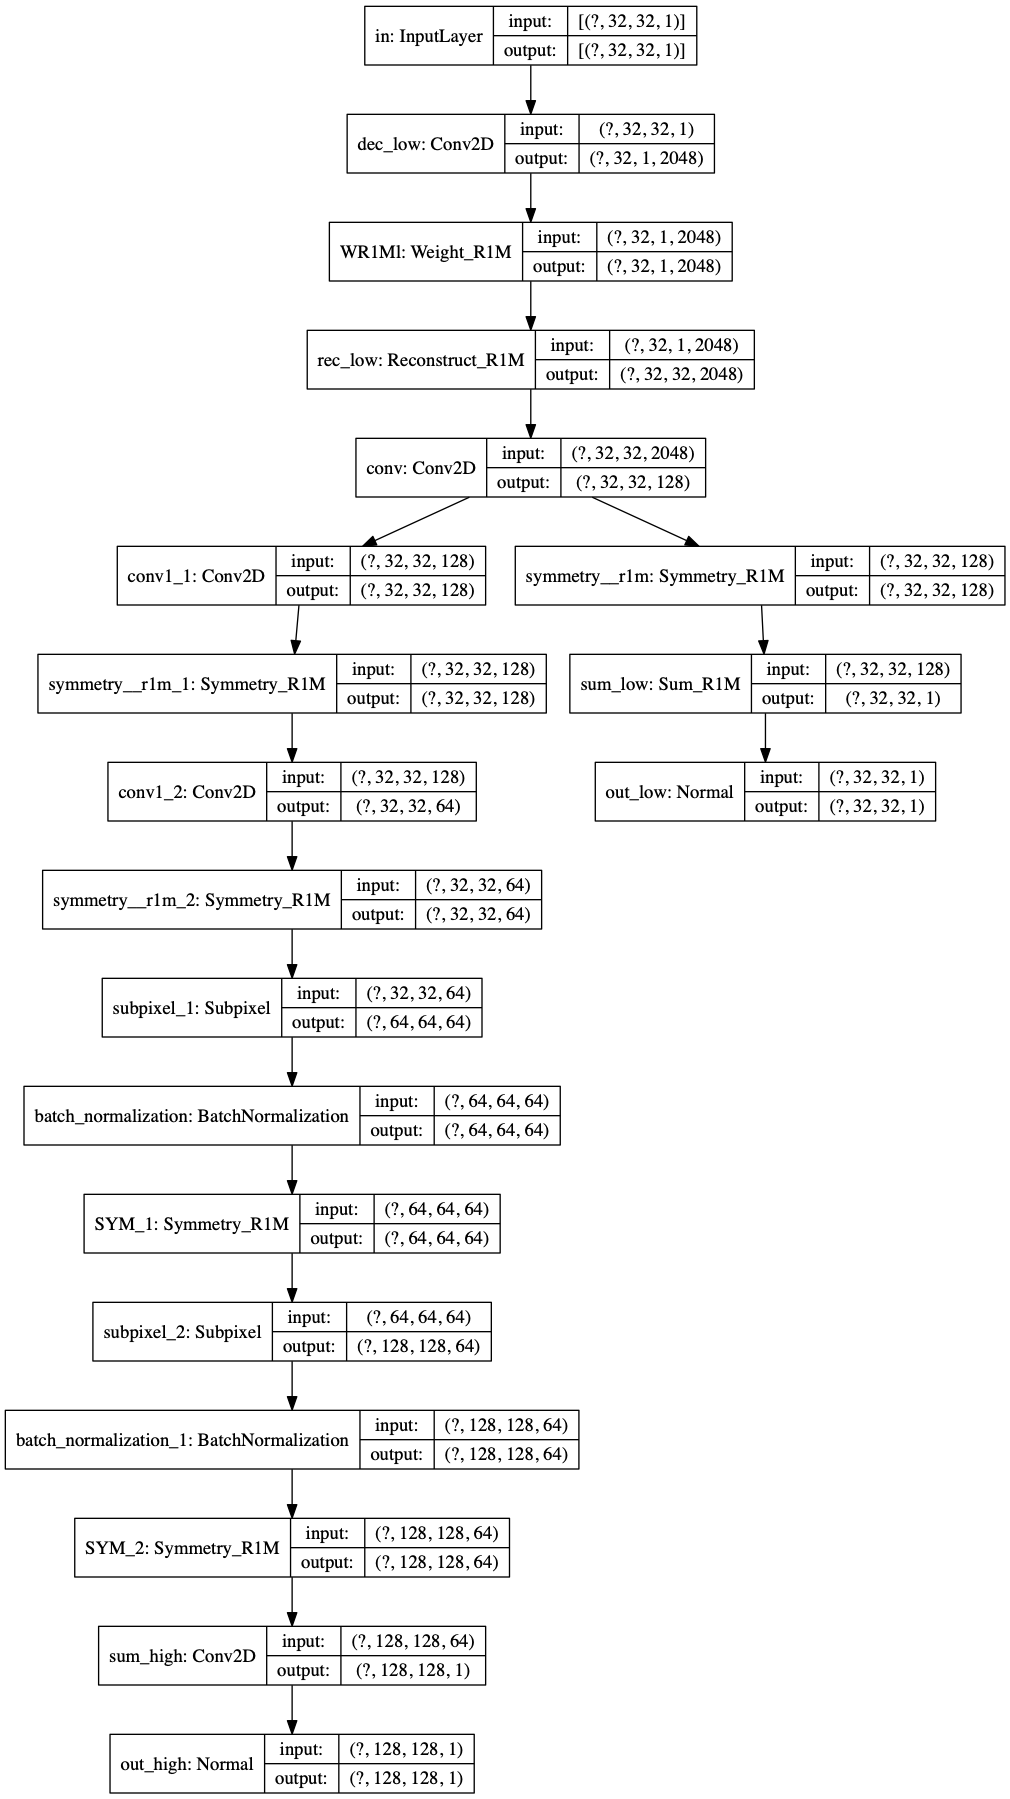
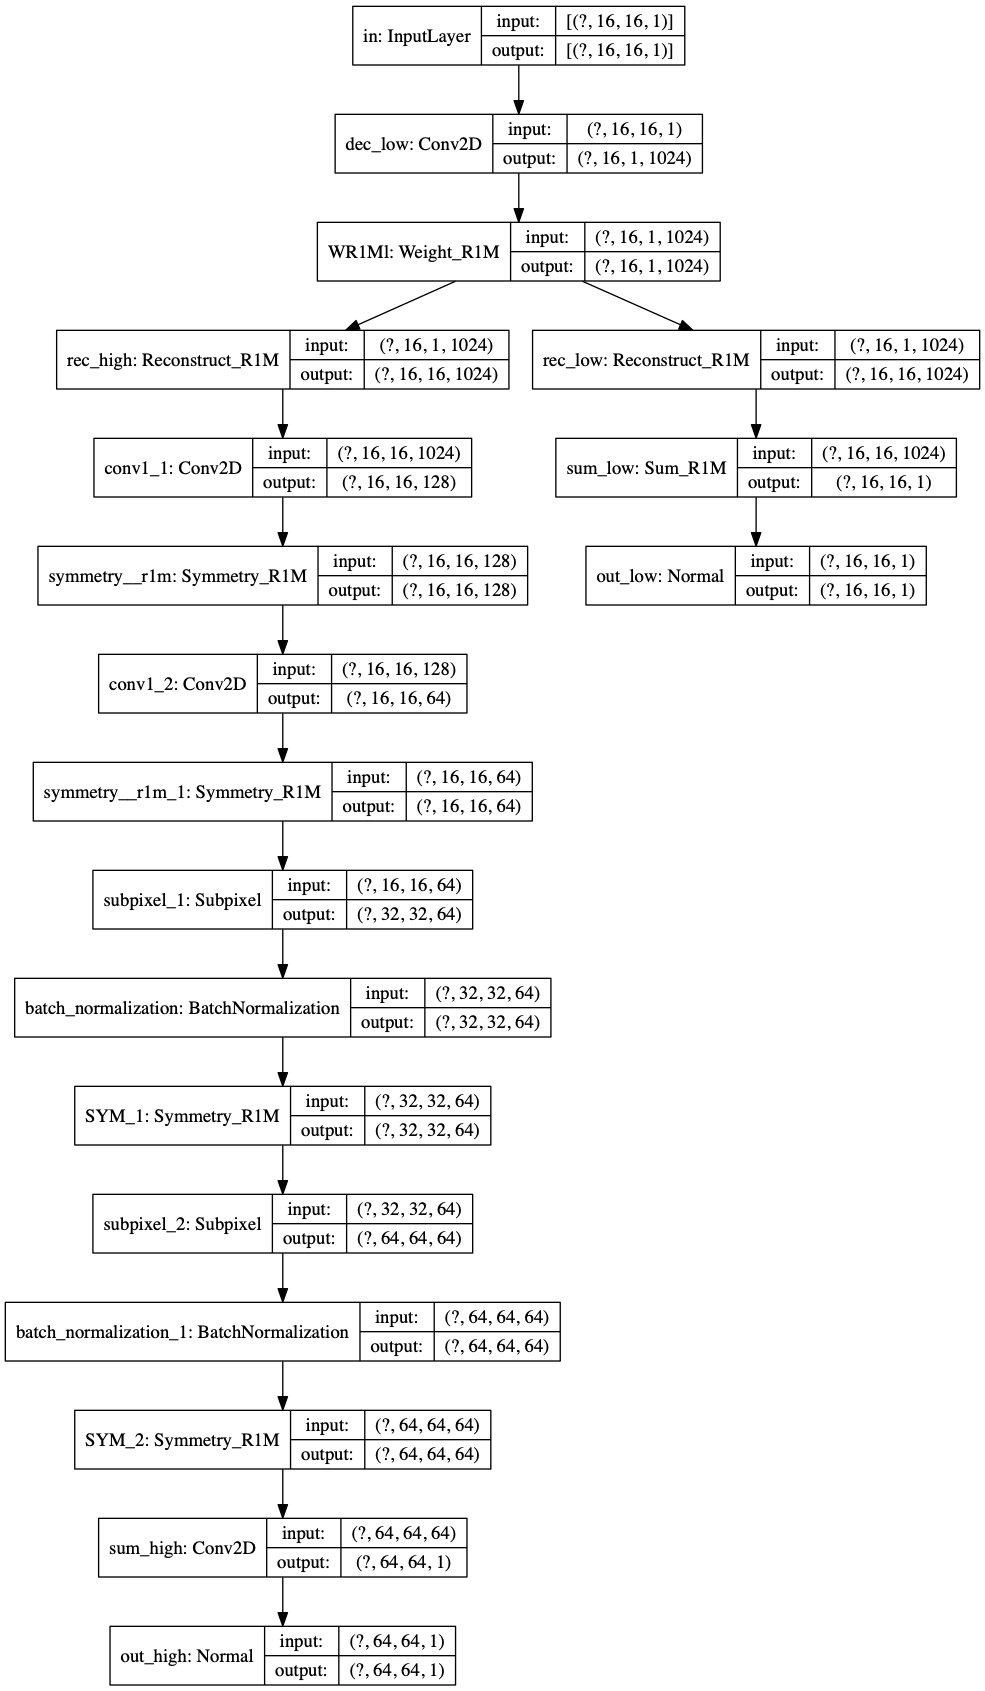
bkup model_1_cnn2D

Changed region(s): [[0.0, 0.0, 1.0, 1.0], [0.1218, 0.1845, 0.2132, 0.2153]]

diff --git a/model.py b/model.py
@@ -152,29 +152,26 @@ class Normal(tf.keras.layers.Layer):
 def make_generator_model(len_low_size=16, scale=4):
     In = tf.keras.layers.Input(
         shape=(len_low_size, len_low_size, 1), name='in', dtype=tf.float32)
-    Decl = tf.keras.layers.Conv2D(2048, [1, len_low_size], strides=1, padding='valid', data_format="channels_last", 
+    Decl = tf.keras.layers.Conv2D(1024, [1, len_low_size], strides=1, padding='valid', data_format="channels_last", 
                                     activation='relu', use_bias=False,
                                     kernel_constraint=tf.keras.constraints.NonNeg(), 
                                     kernel_initializer=tf.keras.initializers.RandomNormal(mean=0.01, stddev=0.1), 
                                     name='dec_low')(In)
+
     WeiR1Ml = Weight_R1M(name='WR1Ml')(Decl)
-    Rec = Reconstruct_R1M(2048, name='rec_low')(WeiR1Ml)
-    conv = tf.keras.layers.Conv2D(128, [3, 3], strides=1, padding='same', data_format="channels_last", 
-                                    activation='relu', use_bias=False,
-                                    name='conv')(Rec)
-    
-    sym = Symmetry_R1M()(conv)
-    Suml = Sum_R1M(name='sum_low')(sym)
+    Recl = Reconstruct_R1M(1024, name='rec_low')(WeiR1Ml)
+    Suml = Sum_R1M(name='sum_low')(Recl)
     low_out = Normal(len_low_size, name='out_low')(Suml)
 
     '''up_o = tf.keras.layers.UpSampling2D(size=(4, 4), data_format='channels_last', name='up_in')(In)
     m_F = tf.constant(1/16.0, shape=(1, 1, 1, 1))
     up_o = tf.keras.layers.Multiply(name='scale_value_in')([up_o, m_F])'''
 
+    Rech = Reconstruct_R1M(1024, name='rec_high')(WeiR1Ml)
 
     conv1 = tf.keras.layers.Conv2D(128, [3, 3], strides=1, padding='same', data_format="channels_last", 
                                     activation='relu', use_bias=False,
-                                    name='conv1_1')(conv)
+                                    name='conv1_1')(Rech)
     sym = Symmetry_R1M()(conv1)
     conv1 = tf.keras.layers.Conv2D(64, [3, 3], strides=1, padding='same', data_format="channels_last", 
                                     activation='relu', use_bias=False,
@@ -285,7 +282,6 @@ def train_step_generator(Gen, Dis, imgl, imgr, loss_filter, loss_weights, opts, 
         gen_low_v += Gen.get_layer('dec_low').trainable_variables
         gen_low_v += Gen.get_layer('WR1Ml').trainable_variables
         gen_low_v += Gen.get_layer('rec_low').trainable_variables
-        gen_low_v += Gen.get_layer('conv').trainable_variables
         gen_low_v += Gen.get_layer('out_low').trainable_variables
 
         gen_loss_low_ssim = generator_ssim_loss(fake_hic_l, imgl_filter)
@@ -298,6 +294,7 @@ def train_step_generator(Gen, Dis, imgl, imgr, loss_filter, loss_weights, opts, 
 
         disc_generated_output = Dis(fake_hic_h, training=False)
         gen_high_v = []
+        gen_high_v += Gen.get_layer('rec_high').trainable_variables
         gen_high_v += Gen.get_layer('conv1_1').trainable_variables
         gen_high_v += Gen.get_layer('conv1_2').trainable_variables
         gen_high_v += Gen.get_layer('subpixel_1').trainable_variables
@@ -518,8 +515,8 @@ def plot_to_image(figure):
     return image
 
 if __name__ == '__main__':
-    Gen = make_generator_model(len_low_size=32, scale=4)
-    Dis = make_discriminator_model(len_low_size=32, scale=4)
+    Gen = make_generator_model(len_low_size=16, scale=4)
+    Dis = make_discriminator_model(len_low_size=16, scale=4)
     print(Gen.summary())
     tf.keras.utils.plot_model(Gen, to_file='G.png', show_shapes=True)
     print(Dis.summary())
